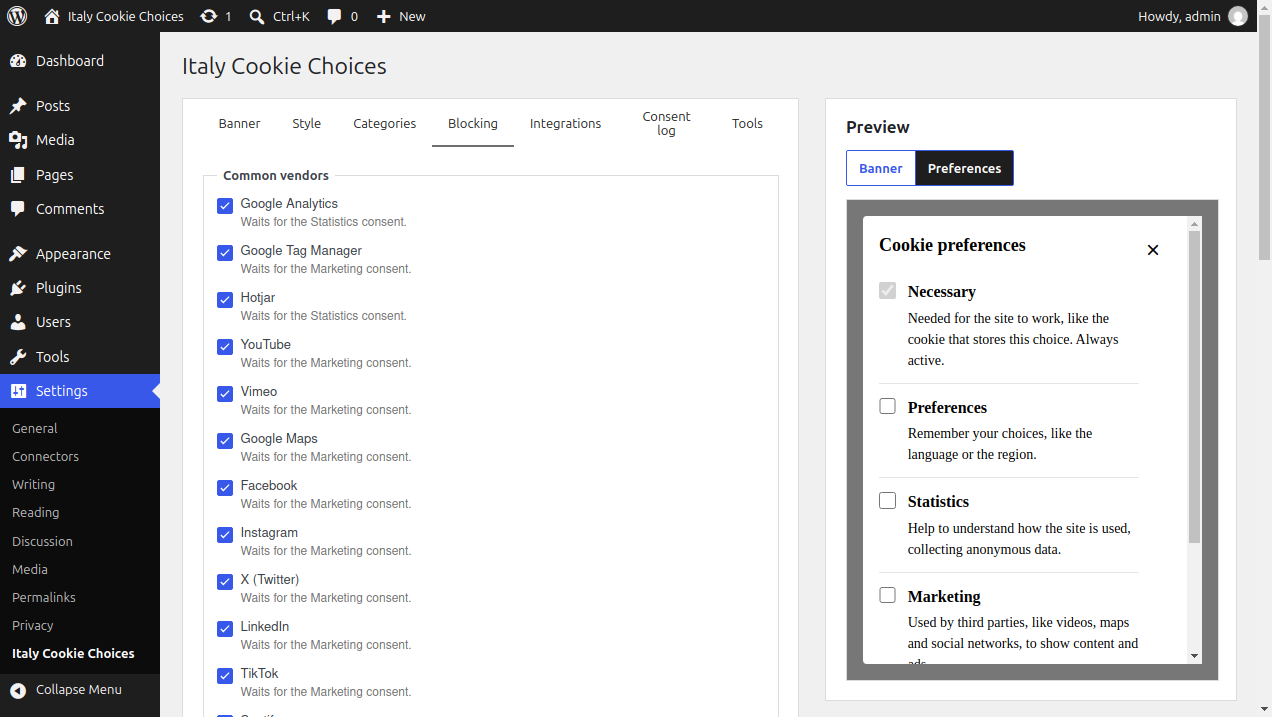
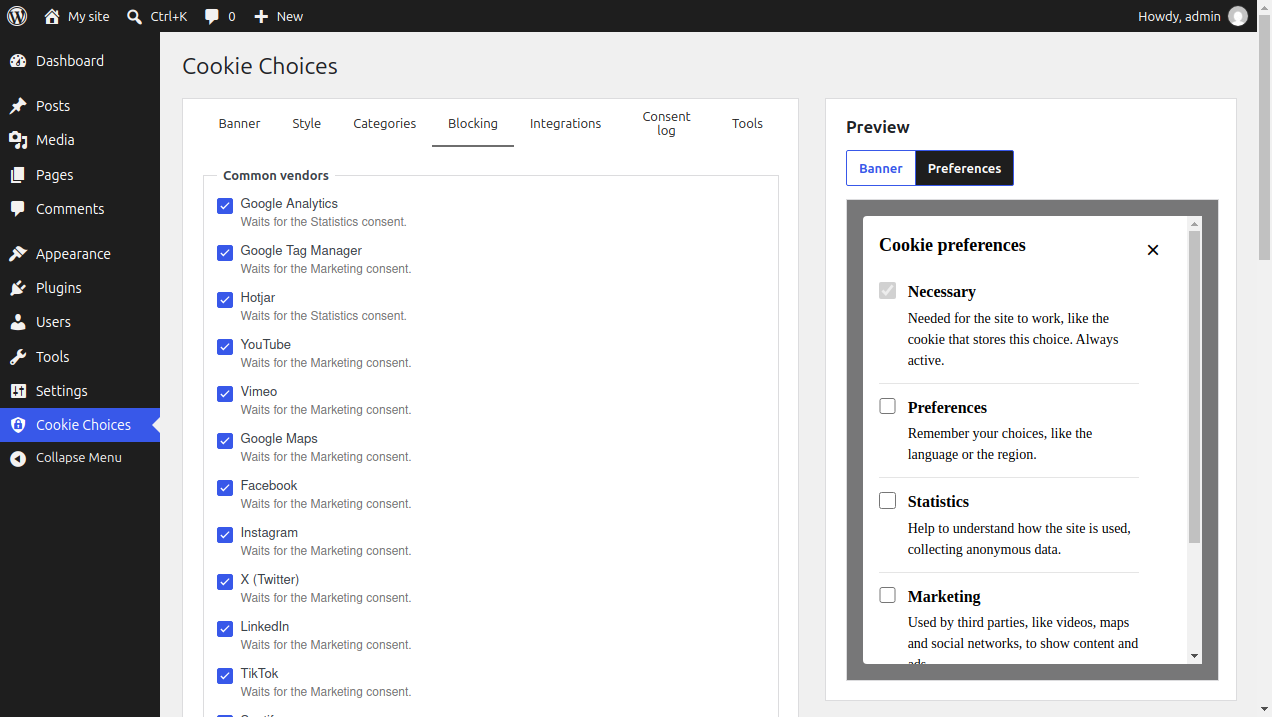
feat: rename the plugin to Cookie Choices
Refs: #240

diff --git a/assets/src/admin/test/tools.test.tsx b/assets/src/admin/test/tools.test.tsx
@@ -74,7 +74,7 @@ it( 'rejects a file that is not JSON', async () => {
 
 it( 'shows why the server rejected the file', async () => {
 	mocked.importSettings.mockRejectedValue( {
-		message: 'The file has no settings of Italy Cookie Choices.',
+		message: 'The file has no settings of Cookie Choices.',
 	} );
 	const { onError } = renderTab();
 
@@ -82,7 +82,7 @@ it( 'shows why the server rejected the file', async () => {
 
 	await waitFor( () =>
 		expect( onError ).toHaveBeenCalledWith(
-			'The file has no settings of Italy Cookie Choices.'
+			'The file has no settings of Cookie Choices.'
 		)
 	);
 } );

diff --git a/.docker/mu-plugins/icc-e2e-fixtures.php b/.docker/mu-plugins/icc-e2e-fixtures.php
@@ -78,3 +78,20 @@ add_filter('pre_oembed_result', static function (mixed $result, string $url): mi
 
     return '<iframe width="560" height="315" src="https://www.youtube.com/embed/icc-oembed"></iframe>';
 }, 10, 2);
+
+// The screenshots show no update notice of WordPress, of the plugins or of the themes.
+foreach (['update_core', 'update_plugins', 'update_themes'] as $iccTransient) {
+    add_filter('pre_site_transient_' . $iccTransient, static function (mixed $value): mixed {
+        if (!get_option('icc_e2e_screenshots')) {
+            return $value;
+        }
+
+        return (object) [
+            'last_checked' => time(),
+            'version_checked' => wp_get_wp_version(),
+            'updates' => [],
+            'response' => [],
+            'translations' => [],
+        ];
+    });
+}

diff --git a/tests/screenshots/ScreenshotsCest.php b/tests/screenshots/ScreenshotsCest.php
@@ -14,7 +14,7 @@ use E2eTester;
  */
 final class ScreenshotsCest
 {
-    private const SETTINGS_PAGE = '/options-general.php?page=italy-cookie-choices';
+    private const SETTINGS_PAGE = '/admin.php?page=italy-cookie-choices';
     private const PREVIEW = '.icc-admin__preview-frame';
 
     /**
@@ -44,6 +44,8 @@ final class ScreenshotsCest
     {
         $locale = $this->text($I, $example, 'locale');
         $I->haveOptionInDatabase('WPLANG', $locale === 'en_US' ? '' : $locale);
+        $I->haveOptionInDatabase('icc_e2e_screenshots', '1');
+        $I->haveOptionInDatabase('blogname', $locale === 'en_US' ? 'My site' : 'Il mio sito');
         $I->haveCookieChoicesOptions([
             'banner' => '3',
             'text' => $this->text($I, $example, 'text'),

diff --git a/italy-cookie-choices.php b/italy-cookie-choices.php
@@ -1,8 +1,8 @@
 <?php
 /**
- * Plugin Name: Italy Cookie Choices (for EU Cookie Law & Cookie Notice)
+ * Plugin Name: Cookie Choices (for EU Cookie Law & GDPR)
  * Plugin URI: https://github.com/ItalyCookieChoices/italy-cookie-choices
- * Description: Italy Cookie Choices allows you to easily comply with the european cookie law and block third part cookie in your page.
+ * Description: Asks the cookie consent by category and blocks the third party scripts, videos and maps until the consent.
  * Version: 3.0.0
  * Requires at least: 6.5
  * Requires PHP: 8.2

diff --git a/src/Settings/UI/ImportEndpoint.php b/src/Settings/UI/ImportEndpoint.php
@@ -55,7 +55,7 @@ final readonly class ImportEndpoint implements SubscriberInterface
         if ($settings === null || $version > Schema::VERSION) {
             return new \WP_Error(
                 'italy_cookie_choices_invalid_import',
-                \__('The file has no settings of Italy Cookie Choices.', 'italy-cookie-choices'),
+                \__('The file has no settings of Cookie Choices.', 'italy-cookie-choices'),
                 ['status' => 400]
             );
         }

diff --git a/src/Settings/Registration.php b/src/Settings/Registration.php
@@ -29,7 +29,7 @@ final readonly class Registration implements SubscriberInterface
             Schema::OPTION,
             [
                 'type' => 'object',
-                'description' => 'Italy Cookie Choices settings.',
+                'description' => 'Cookie Choices settings.',
                 'default' => $this->schema->defaults(),
                 'sanitize_callback' => $this->sanitizer,
                 'show_in_rest' => [

diff --git a/tests/integration/ConsentLog/UI/PrivacyPolicyTextTest.php b/tests/integration/ConsentLog/UI/PrivacyPolicyTextTest.php
@@ -50,7 +50,7 @@ final class PrivacyPolicyTextTest extends WPTestCase
         \set_current_screen('front');
 
         $contents = \array_column(\WP_Privacy_Policy_Content::get_suggested_policy_text(), 'plugin_name');
-        $this->assertContains('Italy Cookie Choices', $contents);
+        $this->assertContains('Cookie Choices', $contents);
     }
 
     private function makeSut(): PrivacyPolicyText

diff --git a/src/ConsentLog/UI/PrivacyPolicyText.php b/src/ConsentLog/UI/PrivacyPolicyText.php
@@ -24,7 +24,7 @@ final readonly class PrivacyPolicyText implements SubscriberInterface
 
     public function add(): void
     {
-        \wp_add_privacy_policy_content('Italy Cookie Choices', $this->text());
+        \wp_add_privacy_policy_content('Cookie Choices', $this->text());
     }
 
     public function text(): string

diff --git a/README.md b/README.md
@@ -1,4 +1,4 @@
-# Italy Cookie Choices (for EU Cookie Law & Cookie Notice) #
+# Cookie Choices (for EU Cookie Law & GDPR) #
 **Contributors:** [overclokk](https://profiles.wordpress.org/overclokk), [andreapernici](https://profiles.wordpress.org/andreapernici), [cardinaleandrea](https://profiles.wordpress.org/cardinaleandrea)  
 Donate link: 
 **Tags:** cookie, gdpr, cookie consent, cookie banner, consent mode  
@@ -13,7 +13,7 @@ Ask the cookie consent by category and block third party scripts, videos and map
 
 ## Description ##
 
-Italy Cookie Choices helps you comply with the EU cookie rules: the ePrivacy Directive, art. 122 of the Italian Codice Privacy with the 2021 guidelines of the Garante, and the GDPR consent requirements.
+Cookie Choices, formerly Italy Cookie Choices, helps you comply with the EU cookie rules: the ePrivacy Directive, art. 122 of the Italian Codice Privacy with the 2021 guidelines of the Garante, and the GDPR consent requirements.
 
 The banner asks the consent by category, with three buttons of the same importance: accept all, reject all and preferences. The scripts, the videos and the maps of the third parties wait for the consent to their category. The consent is read in the browser, so the plugin works with the cached pages.
 
@@ -59,7 +59,7 @@ This plugin provides technical tools, not legal advice. Check with your consulta
 
 1. Install the plugin from **Plugins > Add New**, or upload the `italy-cookie-choices` folder to `/wp-content/plugins/`
 2. Activate the plugin through the **Plugins** menu in WordPress
-3. Configure it in **Settings > Italy Cookie Choices** and turn on **Show the banner**
+3. Configure it in **Cookie Choices** in the admin menu and turn on **Show the banner**
 
 ## Frequently Asked Questions ##
 
@@ -116,7 +116,8 @@ A rewrite of the plugin for the current consent rules. Read [Upgrading from 2.x]
 * The visitors change or withdraw the consent with the Cookie preferences button block, the `[cookie_preferences]` shortcode or a link to `#icc-preferences`, the `[delete_cookie]` shortcode works again
 * Consent log, without IP addresses, with a retention period and the CSV export
 * Google Consent Mode v2, basic or advanced, and the Google Analytics, Google Tag Manager and Facebook pixel tags from their ids
-* New settings page with a live preview, the import and the export of the settings
+* New settings page with a live preview, the import and the export of the settings, in its own admin menu
+* Renamed to Cookie Choices, the plugin works in every EU country
 * WPML and Polylang translate the texts again, Italian translation included
 * Removed the `icc_js_array` and `icc_output_html` filters and the Ceceppa Multilingua support, deprecated the `icc_bots` filter
 * New `PluginLoaded` event, the `icc_plugin_loaded` action still fires

diff --git a/docs/README.md b/docs/README.md
@@ -1,6 +1,6 @@
-# Italy Cookie Choices documentation
+# Cookie Choices documentation
 
-Italy Cookie Choices asks the consent of your visitors before the cookies that are not necessary, and blocks the third party scripts, videos and maps until the consent to their category.
+Cookie Choices, formerly Italy Cookie Choices, asks the consent of your visitors before the cookies that are not necessary, and blocks the third party scripts, videos and maps until the consent to their category.
 
 [Leggi la documentazione in italiano](it/README.md).
 

diff --git a/docs/it/README.md b/docs/it/README.md
@@ -1,6 +1,6 @@
-# Documentazione di Italy Cookie Choices
+# Documentazione di Cookie Choices
 
-Italy Cookie Choices chiede il consenso dei visitatori prima dei cookie non necessari e blocca script, video e mappe di terze parti finché non viene accettata la loro categoria.
+Cookie Choices, prima Italy Cookie Choices, chiede il consenso dei visitatori prima dei cookie non necessari e blocca script, video e mappe di terze parti finché non viene accettata la loro categoria.
 
 [Read the documentation in English](../README.md).
 

diff --git a/docs/it/multilingua.md b/docs/it/multilingua.md
@@ -6,7 +6,7 @@ I testi che scrivi nelle impostazioni vengono tradotti con il tuo plugin multili
 
 ## WPML
 
-Apri **WPML > Traduzione stringhe** e scegli il dominio **Italy Cookie Choices**. Le stringhe vengono registrate ogni volta che un amministratore apre la bacheca:
+Apri **WPML > Traduzione stringhe** e scegli il dominio **Italy Cookie Choices**, il nome delle versioni 2.x mantenuto per le traduzioni salvate. Le stringhe vengono registrate ogni volta che un amministratore apre la bacheca:
 
 * Banner text
 * Banner url
